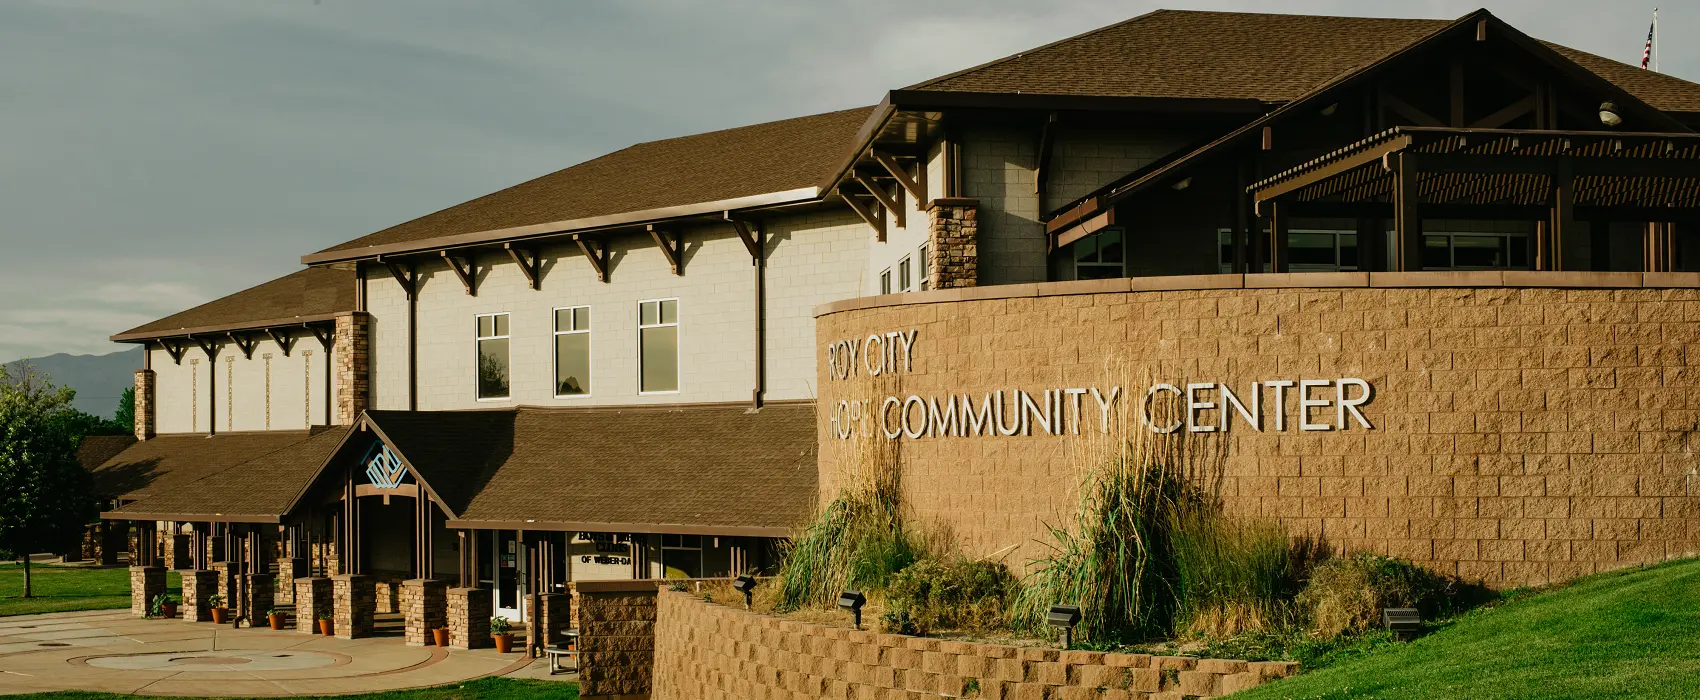
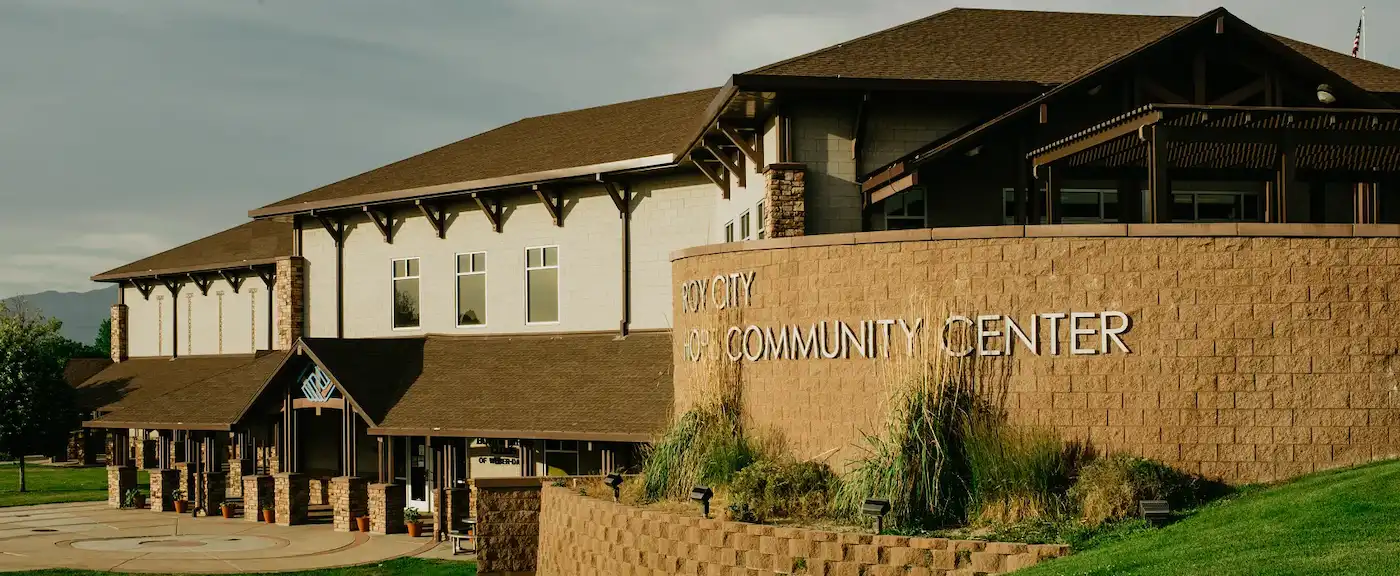
directory page

diff --git a/chamber/directory.html b/chamber/directory.html
@@ -27,12 +27,13 @@
     <!-- Scripts -->
     <script src="scripts/navigation.js" defer></script>
     <script src="scripts/date.js" defer></script>
+    <script src="scripts/companies.js" defer></script>
 </head>
 <body>
     <header>
         <img src="images/bank.svg" alt="Site Logo" width="1" height="1">
         <span>Roy City Chamber Directory</span>
-        <button id="ham-btn" class="hamburger"></button>
+        <button id="ham-btn" class="hamburger" aria-label="Navigation"></button>
         <nav id="nav-bar" class="navigation">
         <ul>
             <li class="link"><a href="#">Home</a></li>
@@ -44,25 +45,60 @@
     </header>
     
     <main>
-        <img class="hero" src="images/hero-large.webp" alt="Hero Image">
+        <img class="hero" src="images/hero-large.webp" alt="hero image">
         <section>
             <h1>Directory</h1>
-            <div class="live">
-                <div class="events">
+            <div id="live">
+                <div id="events">
                     <h2>Events</h2>
-                    <div></div>
+                    <div>
+                        <h3>Saturday, September 27, 2025</h3>
+                        <h4>Wasatch Pony Club's The Pumpkin Event</h4>
+                        <p>8am - 6pm</p>
+                        <p>Location: 	Golden Spike Event Center, 1000 N 1200 W, Ogden, UT 84404
+                        </p>
+                        <h4>Fall Foraging</h4>
+                        <p>10 - 11:30am</p>
+                        <p>Location: 	Ogden Nature Center, 966 W 12th Street, Ogden UT 84404
+                        </p>
+                        <h3>Sunday, September 28, 2025</h3>
+                        <h4>	
+                        Wasatch Yoga Fest</h4>
+                        <p>10am - 7pm</p>
+                        <p>Location: 	The Monarch Ogden 455 25th Street, Ogden, UT 84401
+                        </p>
+                    </div>
                 </div>
-                <div class="weather">
+                <div id="weather">
                     <h2>Current Weather</h2>
-                    <div></div>
+                    <div>
+                        <span>&#9788;</span>
+                        <p>79&deg; F</p>
+                        <p>Sunny</p>
+                        <p>High: 80&deg; F</p>
+                        <p>Low: 58&deg; F</p>
+                        <p>Precipitation: 0%</p>
+                        <p>Humidity: 26%</p>
+                        <p>Wind: 6mph</p>
+                    </div>
                 </div>
-                <div class="forecast">
+                <div id="forecast">
                     <h2>Weather Forecast</h2>
-                    <div></div>
+                    <div>
+                        <p>Today: 80&deg; F</p>
+                        <p>Sunday: 72&deg; F</p>
+                        <p>Monday: 77&deg; F</p>
+                        <p>Tuesday: 70&deg; F</p>
+                    </div>
                 </div>
             </div>
         </section>
-        <section class="cards"></section>
+        <div id="btns">
+            <button id="grid" aria-label="Grid View">&#9783;</button>
+            <button id="list" aria-label="List View">&#9776;</button>
+        </div>
+        <section id="cards"></section>
+        <section id="members"></section>
     </main>
     <footer>
         <div class="contact">
@@ -74,7 +110,7 @@
         </div>
         <div class="social">
             <a href="https://www.linkedin.com/in/camille-hargis-97988a117/" target="_blank"><img src="images/linkedin.svg" alt="LinkedIn" width="1" height="1"></a>
-            <a href="https://www.github.com/camillehargis22" target="_blank"><img src="images/github.svg" alt="GitHub" width="1" height="1"></a>
+            <a href="https://www.github.com/camillehargis22" target="_blank"><img src="images/github.svg" alt="GitHub Link" width="1" height="1"></a>
             <a href="https://www.facebook.com/cami.hargis" target="_blank"><img src="images/facebook.svg" alt="Facebook" width="1" height="1"></a>
         </div>
         <div class="info">

diff --git a/chamber/scripts/companies.js b/chamber/scripts/companies.js
@@ -1,0 +1,95 @@
+const cards = document.querySelector('#cards');
+const members = document.querySelector('#members');
+
+async function getCompanyData() {
+    const response = await fetch('./data/member.json');
+    const data = await response.json();
+    displayCompanies(data.companies);
+}
+
+async function showListView() {
+    const response = await fetch('./data/member.json');
+    const data = await response.json();
+    displayListView(data.companies);
+}
+
+const gridBtn = document.querySelector('#grid');
+const listBtn = document.querySelector('#list');
+
+gridBtn.addEventListener('click', () => {
+    cards.innerHTML = '';
+    members.innerHTML = '';
+    getCompanyData();
+});
+
+listBtn.addEventListener('click', () => {
+    cards.innerHTML = '';
+    members.innerHTML = '';
+    showListView();
+});
+
+getCompanyData();
+
+const displayCompanies = (companies) => {
+    companies.forEach((company) => {
+        // create elements
+        let card = document.createElement('section');
+
+        let name = document.createElement('h2');
+
+        // holds img and info to help use grid to set up
+        let imgAndInfo = document.createElement('section');
+        imgAndInfo.className = 'imgAndInfo';
+
+        let imageUrl = document.createElement('img');
+
+        let info = document.createElement('div');
+        let address = document.createElement('p');
+        let phone = document.createElement('p');
+        let website = document.createElement('p');
+        let membershipLevel = document.createElement('p');
+        let otherInfo = document.createElement('p');
+
+        name.textContent = `${company.name}`;
+
+        imageUrl.setAttribute('src', company.imageUrl);
+        imageUrl.setAttribute('alt', `Image of ${company.name}`);
+        imageUrl.setAttribute('loading', 'lazy');
+        imageUrl.setAttribute('width', '340');
+        imageUrl.setAttribute('height', '440');
+
+        address.textContent = `Address: ${company.address}`;
+        phone.textContent = `Phone: ${company.phone}`;
+        website.textContent = `Website: ${website}`;
+        membershipLevel.textContent = `Membership Level: ${company.membershipLevel}`;
+        otherInfo.textContent = `${company.otherInfo}`;
+
+        info.appendChild(address);
+        info.appendChild(phone);
+        info.appendChild(website);
+        info.appendChild(membershipLevel);
+        info.appendChild(otherInfo);
+
+        imgAndInfo.appendChild(imageUrl);
+        imgAndInfo.appendChild(info);
+
+        card.appendChild(name);
+        card.appendChild(imgAndInfo);
+
+        cards.appendChild(card);
+    });
+}
+
+const displayListView = (companies) => {
+    companies.forEach((company) => {
+        let member = document.createElement('section');
+
+        let name = document.createElement('h2');
+
+        name.textContent = `${company.name}`;
+
+        member.appendChild(name);
+
+        members.appendChild(member);
+    });
+}

diff --git a/chamber/styles/directory-base.css b/chamber/styles/directory-base.css
@@ -1,3 +1,8 @@
+* {
+    color: #000080;
+    font-family: "Epunda Slab", sans-serif;
+}
+
 /* HEADER */
 header {
     display: grid;
@@ -21,9 +26,8 @@ header span {
 
 /* HAMBURGER NAVIGATION */
 .hamburger {
-    /* background: */
+    background-color: #eee;
     border: none;
-    /* color: */
     cursor: pointer;
     font-family: Verdana, Geneva, Tahoma, sans-serif;
 }
@@ -54,17 +58,15 @@ header span {
 .navigation a {
     display: block;
     padding: .8rem 10px;
-    /* color: */
     text-decoration: none;
-    border-bottom: solid 1px #ddd;
 }
 
 .navigation li.current {
-    background-color: #000;
+    background-color: #add8e6;
 }
 
 .navigation a:hover {
-    background-color: #000;
+    border-bottom: solid 2px #000080;
 }
 
 /* MAIN */
@@ -79,20 +81,78 @@ h1 {
     margin-left: 8px;
 }
 
-.live {
+#live {
     margin: 8px;
 }
 
 h2 {
     text-align: center;
-    background-color: #666;
+    background-color: #add8e6;
     margin-bottom: 0;
+    padding: 4px;
 }
 
-.events div, .weather div, .forecast div {
+#events div, #weather div, #forecast div {
+    background-color: #eee;
+    padding: 10px;
+}
+
+#events h3 {
+    border-bottom: solid 1px #000080;
+}
+
+#weather span {
+    font-size: 50px;
+}
+
+#btns {
+    margin-left: 8px;
+}
+
+/* MAIN CARDS GRID VIEW*/
+#cards {
+    display: grid;
+    grid-template-columns: repeat(auto-fit, minmax(300px, 1fr));
+    gap: .5rem;
+    margin: 8px;
+}
+
+#cards section {
+    background-color: #eee;
+    text-align: left;
+}
+
+#cards h2 {
+    margin-top: 0;
+    background-color: #eee;
+    border-bottom: solid 1px #000;
+}
+
+#cards section .imgAndInfo {
+    display: grid;
+    grid-template-columns: auto auto;
+    padding: 2px;
+}
+
+#cards img {
+    width: 90%;
+    height: auto;
     border: solid 1px #000;
-    background-color: #999;
-    padding: 50px;
+    margin:  15px 5px;
+}
+
+#cards div {
+    overflow-wrap: anywhere;
+}
+
+/* MAIN CARDS LIST VIEW */
+#members {
+    margin: 8px;
+}
+
+#members h2 {
+    text-align: left;
+    padding: 4px;
 }
 
 /* FOOTER */
@@ -104,7 +164,7 @@ footer {
 
 /* Contact Section */
 .contact {
-    border: solid 1px #000;
+    padding-left: 8px;
 }
 
 .bold {
@@ -117,7 +177,6 @@ footer {
     justify-content: center;
     column-gap: 8px;
     padding: 8px;
-    border: solid 1px #000;
 }
 
 .social a {
@@ -134,10 +193,6 @@ footer {
 }
 
 .social a:hover {
-    background-color: #000;
-}
-
-/* Info Section */
-.info {
-    border: solid 1px #000;
+    padding: 2px;
+    border-bottom: solid 2px #000080;
 }

diff --git a/chamber/styles/directory-large.css b/chamber/styles/directory-large.css
@@ -29,6 +29,14 @@
         grid-gap: 8px;
     }
 
+    #cards {
+        grid-template-columns: repeat(auto-fit, minmax(400px, 1fr));
+    }
+
+    #cards section .imgAndInfo {
+        margin: 8px;
+    }
+
     footer {
         display: grid;
         grid-template-columns: auto auto auto;
